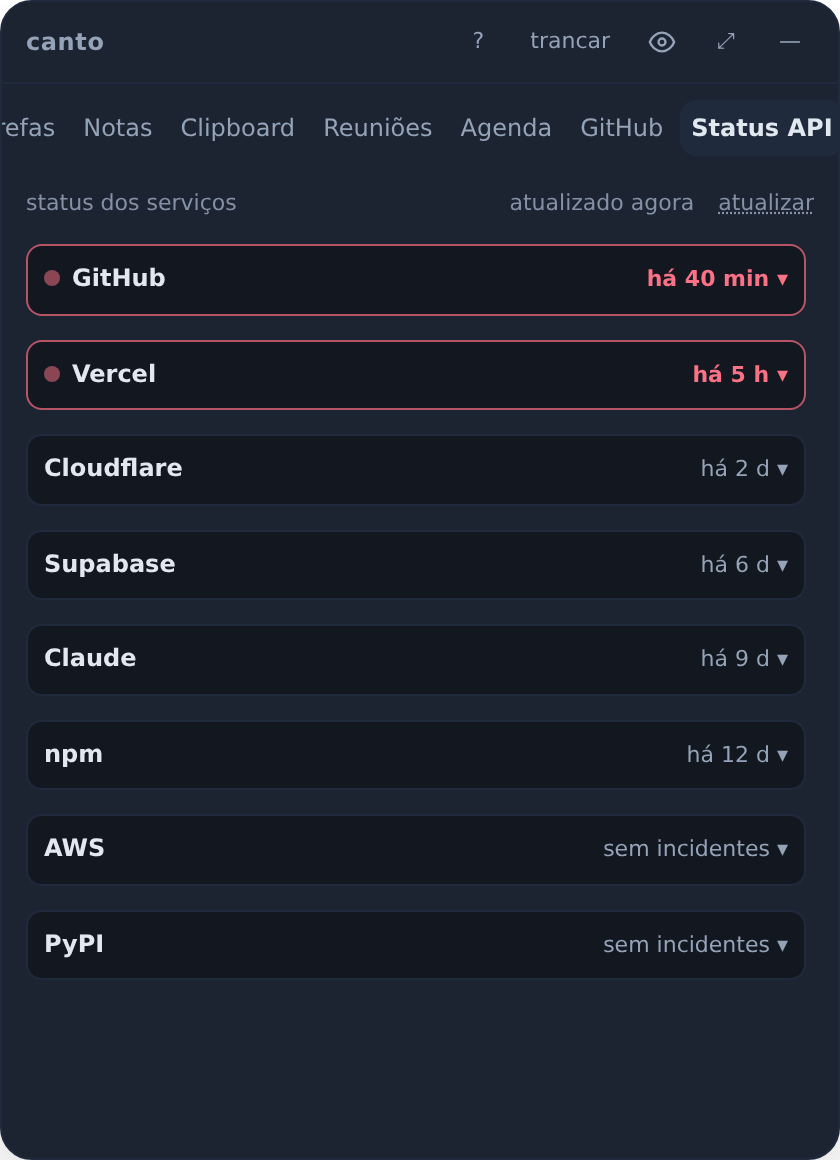
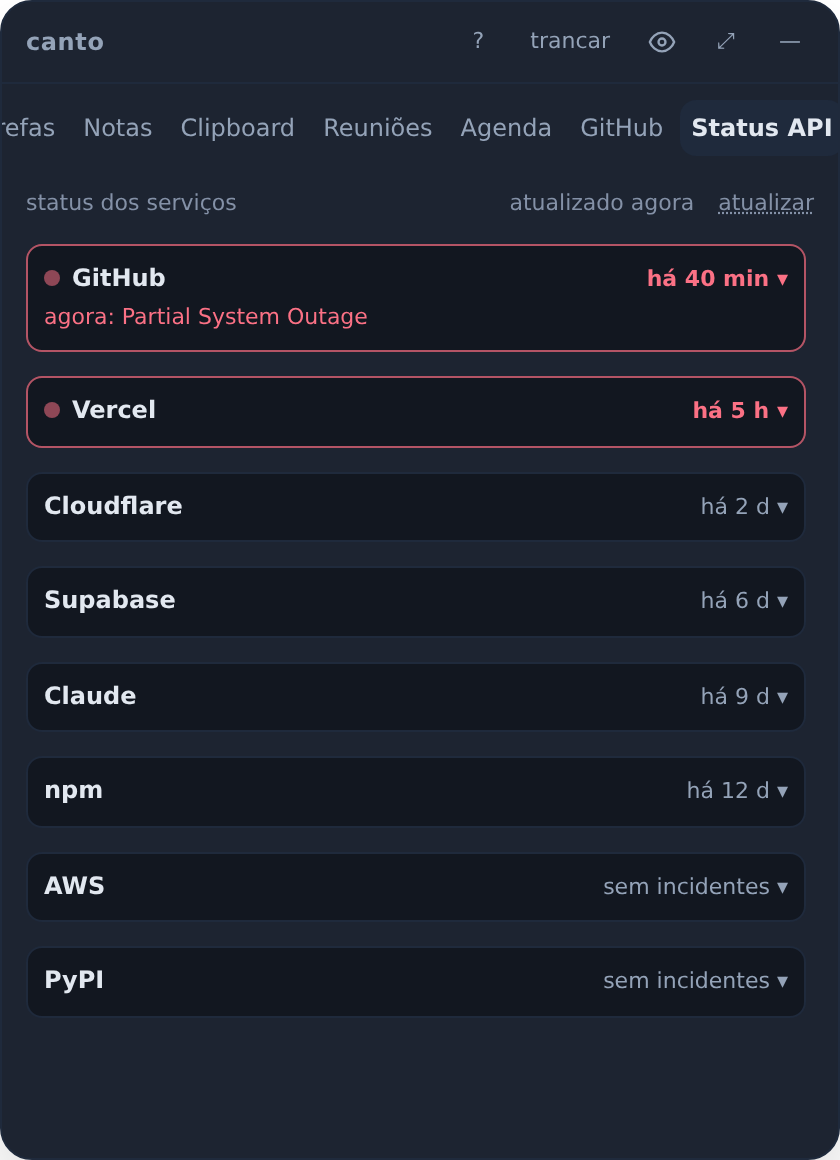
feat(status): show the live Statuspage state and highlight only open trouble
The RSS history can't tell a resolved incident from an ongoing one. For
Statuspage-hosted services (their feed ends in /history.rss) the tab now
also reads /api/v2/status.json and highlights only minor/major/critical
states, with the provider's own description. Services without that
endpoint, or when the call fails, keep the 24 h history rule.

Claude-Session: https://claude.ai/code/session_01NvVAVLfigwZibdVop6P8CV

Changed region(s): [[0.031, 0.2483, 0.9595, 0.869]]

diff --git a/src/components/StatusTab.tsx b/src/components/StatusTab.tsx
@@ -1,7 +1,7 @@
 import { useCallback, useEffect, useId, useState } from "react";
 import { api, errText, type StatusResult } from "../lib/api";
 import { timeAgo } from "../lib/time";
-import { hasRecentIncident, lastIncident, sortByLastIncident } from "../lib/status";
+import { isTroubled, lastIncident, sortByLastIncident } from "../lib/status";
 import Skeleton from "./Skeleton";
 
 /** Incident history from services the team depends on: read-only, no account needed. */
@@ -66,7 +66,9 @@ export default function StatusTab() {
 function StatusAccordion({ result, open, onToggle }: { result: StatusResult; open: boolean; onToggle: () => void }) {
   const bodyId = useId();
   const last = lastIncident(result);
-  const troubled = !result.error && hasRecentIncident(result, Date.now());
+  const troubled = isTroubled(result, Date.now());
+  const maintenance = result.live?.indicator === "maintenance";
+  const liveText = troubled || maintenance ? result.live?.description : "";
   return (
     <section
       data-troubled={troubled || undefined}
@@ -77,13 +79,19 @@ function StatusAccordion({ result, open, onToggle }: { result: StatusResult; ope
           <span className="flex min-w-0 items-center gap-1.5">
             {troubled && <span aria-hidden="true" className="size-2 shrink-0 rounded-full bg-danger motion-safe:animate-pulse" />}
             <span className="truncate text-xs font-semibold text-fg">{result.label}</span>
-            {troubled && <span className="sr-only">com incidente nas últimas 24 h</span>}
+            {troubled && <span className="sr-only">{result.live ? "com problemas agora" : "com incidente nas últimas 24 h"}</span>}
           </span>
           <span className={`shrink-0 text-[11px] ${troubled ? "font-semibold text-danger" : "text-muted"}`}>
             {result.error ? "indisponível" : last > 0 ? timeAgo(last) : "sem incidentes"}{" "}
             <span aria-hidden="true">{open ? "▴" : "▾"}</span>
           </span>
         </span>
+        {liveText && (
+          <span className={`mt-0.5 block truncate text-[11px] ${troubled ? "text-danger" : "text-muted"}`}>
+            {maintenance ? "manutenção: " : "agora: "}
+            {liveText}
+          </span>
+        )}
       </button>
       {open && (
         <div id={bodyId} className="px-2 pb-2">

diff --git a/src/lib/status.test.ts b/src/lib/status.test.ts
@@ -1,5 +1,5 @@
 import { expect, test } from "bun:test";
-import { hasRecentIncident, sortByLastIncident } from "./status";
+import { hasRecentIncident, isTroubled, sortByLastIncident } from "./status";
 
 const svc = (id: string, times: number[], error: string | null = null) => ({
   id,
@@ -18,4 +18,13 @@ test("an incident in the last 24h marks the service as having problems", () => {
   expect(hasRecentIncident(svc("a", [now - 3600_000]), now)).toBe(true);
   expect(hasRecentIncident(svc("a", [now - 25 * 3600_000]), now)).toBe(false);
   expect(hasRecentIncident(svc("a", []), now)).toBe(false);
+});
+
+test("the live Statuspage indicator wins over the 24h history rule", () => {
+  const now = 10 * 24 * 3600_000;
+  const recent = svc("a", [now - 3600_000]);
+  expect(isTroubled({ ...recent, live: { indicator: "none", description: "All Systems Operational" } }, now)).toBe(false);
+  expect(isTroubled({ ...svc("b", []), live: { indicator: "major", description: "Partial Outage" } }, now)).toBe(true);
+  expect(isTroubled({ ...svc("c", []), live: { indicator: "maintenance", description: "Scheduled" } }, now)).toBe(false);
+  expect(isTroubled(recent, now)).toBe(true);
 });

diff --git a/src/components/StatusTab.test.tsx b/src/components/StatusTab.test.tsx
@@ -90,3 +90,11 @@ test("services are listed by last incident and the ones with an incident in the 
   expect(screen.getByText("GitHub").closest("section")?.hasAttribute("data-troubled")).toBe(true);
   expect(screen.getByText("Claude").closest("section")?.hasAttribute("data-troubled")).toBe(false);
 });
+
+test("a live outage from Statuspage is highlighted with its description even without recent history", async () => {
+  const down = { ...aws, id: "npm", label: "npm", live: { indicator: "major", description: "Partial System Outage" } };
+  status = () => Promise.resolve([down, claude]);
+  await show();
+  expect(screen.getByText("npm").closest("section")?.hasAttribute("data-troubled")).toBe(true);
+  expect(screen.getByText(/Partial System Outage/)).toBeTruthy();
+});

diff --git a/src/lib/api.ts b/src/lib/api.ts
@@ -99,7 +99,8 @@ export type Attachment = { title: string; url: string; mime: string };
 export type ChecksStatus = "success" | "failure" | "running" | "none";
 export type GeminiDoc = { meeting: string; start: string; title: string; url: string };
 export type StatusItem = { title: string; link: string; published_at: number };
-export type StatusResult = { id: string; label: string; items: StatusItem[]; error: string | null };
+export type StatusLive = { indicator: "none" | "minor" | "major" | "critical" | "maintenance"; description: string };
+export type StatusResult = { id: string; label: string; items: StatusItem[]; error: string | null; live?: StatusLive | null };
 
 export const api = {
   status: () => invoke<VaultStatus>("vault_status"),

diff --git a/src/lib/status.ts b/src/lib/status.ts
@@ -17,3 +17,12 @@ export function sortByLastIncident(results: StatusResult[]): StatusResult[] {
     .sort((a, b) => b.last - a.last || a.i - b.i)
     .map((x) => x.r);
 }
+
+/**
+ * Statuspage's live indicator wins when there is one (a resolved incident an hour ago is not trouble);
+ * other providers only have history, so a recent incident stands in for "still happening".
+ */
+export function isTroubled(r: StatusResult, now: number): boolean {
+  if (r.live) return ["minor", "major", "critical"].includes(r.live.indicator);
+  return !r.error && hasRecentIncident(r, now);
+}

diff --git a/src-tauri/src/status_live.rs b/src-tauri/src/status_live.rs
@@ -1,0 +1,64 @@
+//! Current state from Statuspage's `/api/v2/status.json`: the RSS history only says what happened, not
+//! whether it is still happening. Best effort; the UI falls back to "incident in the last 24 h".
+use serde::{Deserialize, Serialize};
+
+#[derive(Debug, Clone, Serialize, PartialEq)]
+pub struct Live {
+    /// Statuspage's `none`, `minor`, `major`, `critical` or `maintenance`.
+    pub indicator: String,
+    pub description: String,
+}
+
+#[derive(Deserialize)]
+struct Body {
+    status: Status,
+}
+
+#[derive(Deserialize)]
+struct Status {
+    indicator: String,
+    #[serde(default)]
+    description: String,
+}
+
+const INDICATORS: [&str; 5] = ["none", "minor", "major", "critical", "maintenance"];
+
+/// Statuspage publishes the incident history at `/history.rss`; other providers have no such endpoint.
+pub fn url_for(feed_url: &str) -> Option<String> {
+    feed_url.strip_suffix("/history.rss").map(|base| format!("{base}/api/v2/status.json"))
+}
+
+pub fn parse(bytes: &[u8]) -> Option<Live> {
+    let body: Body = serde_json::from_slice(bytes).ok()?;
+    let description: String = body.status.description.chars().take(120).collect();
+    INDICATORS
+        .contains(&body.status.indicator.as_str())
+        .then_some(Live { indicator: body.status.indicator, description })
+}
+
+pub fn fetch(client: &reqwest::blocking::Client, feed_url: &str) -> Option<Live> {
+    let res = client.get(url_for(feed_url)?).send().ok()?.error_for_status().ok()?;
+    parse(&res.bytes().ok()?)
+}
+
+#[cfg(test)]
+mod tests {
+    use super::*;
+
+    #[test]
+    fn only_statuspage_feeds_have_a_live_endpoint() {
+        assert_eq!(
+            url_for("https://www.githubstatus.com/history.rss").as_deref(),
+            Some("https://www.githubstatus.com/api/v2/status.json")
+        );
+        assert_eq!(url_for("https://status.cloud.google.com/en/feed.atom"), None);
+    }
+
+    #[test]
+    fn parses_the_indicator_and_rejects_unknown_ones() {
+        let ok = br#"{"page":{"id":"x"},"status":{"indicator":"major","description":"Partial System Outage"}}"#;
+        assert_eq!(parse(ok), Some(Live { indicator: "major".into(), description: "Partial System Outage".into() }));
+        assert_eq!(parse(br#"{"status":{"indicator":"<script>"}}"#), None);
+        assert_eq!(parse(b"<html>not json</html>"), None);
+    }
+}

diff --git a/src-tauri/src/status_feed.rs b/src-tauri/src/status_feed.rs
@@ -46,6 +46,8 @@ pub struct StatusResult {
     pub items: Vec<StatusItem>,
     /// Set when the fetch or parse failed; `items` is then empty rather than stale.
     pub error: Option<String>,
+    /// Current state, for Statuspage-hosted services only.
+    pub live: Option<crate::status_live::Live>,
 }
 
 fn parse(bytes: &[u8]) -> Result<Vec<StatusItem>, String> {
@@ -74,11 +76,16 @@ fn fetch_one(client: &reqwest::blocking::Client, source: &Source) -> StatusResul
         .map_err(|e| e.to_string())
         .and_then(|r| r.bytes().map_err(|e| e.to_string()))
         .and_then(|b| parse(&b));
+    let live = crate::status_live::fetch(client, source.url);
     match outcome {
-        Ok(items) => StatusResult { id: source.id.into(), label: source.label.into(), items, error: None },
-        Err(error) => {
-            StatusResult { id: source.id.into(), label: source.label.into(), items: Vec::new(), error: Some(error) }
-        }
+        Ok(items) => StatusResult { id: source.id.into(), label: source.label.into(), items, error: None, live },
+        Err(error) => StatusResult {
+            id: source.id.into(),
+            label: source.label.into(),
+            items: Vec::new(),
+            error: Some(error),
+            live,
+        },
     }
 }
 
@@ -96,6 +103,7 @@ pub fn fetch_all() -> Vec<StatusResult> {
                     label: s.label.into(),
                     items: Vec::new(),
                     error: Some(e.to_string()),
+                    live: None,
                 })
                 .collect();
         }
@@ -111,6 +119,7 @@ pub fn fetch_all() -> Vec<StatusResult> {
                     label: source.label.into(),
                     items: Vec::new(),
                     error: Some("thread interrompida".into()),
+                    live: None,
                 })
             })
             .collect()

diff --git a/src-tauri/src/status_cache.rs b/src-tauri/src/status_cache.rs
@@ -36,7 +36,7 @@ mod tests {
     use super::*;
 
     fn result(label: &str) -> Vec<StatusResult> {
-        vec![StatusResult { id: "x".into(), label: label.into(), items: Vec::new(), error: None }]
+        vec![StatusResult { id: "x".into(), label: label.into(), items: Vec::new(), error: None, live: None }]
     }
 
     #[test]

diff --git a/src-tauri/src/lib.rs b/src-tauri/src/lib.rs
@@ -54,6 +54,7 @@ pub mod routine;
 pub mod snooze;
 pub mod status_cache;
 pub mod status_feed;
+pub mod status_live;
 pub mod store;
 pub mod subtask;
 pub mod sync;

diff --git a/README.md b/README.md
@@ -168,7 +168,7 @@ And **Follow system**, which switches between light and dark along with the OS. 
 
 | Task reminder | Change master password | Status API (opt-in tab) |
 |---|---|---|
-| ![Reminder with complete and snooze](docs/prints/app/08-lembrete-tarefa.png) | ![Password change form](docs/prints/app/13-trocar-senha.png) | ![Services sorted by last incident, the ones with an incident in the last 24 h highlighted](docs/prints/app/29-status-api.png) |
+| ![Reminder with complete and snooze](docs/prints/app/08-lembrete-tarefa.png) | ![Password change form](docs/prints/app/13-trocar-senha.png) | ![Services sorted by last incident; ongoing outages highlighted with their live Statuspage state](docs/prints/app/29-status-api.png) |
 
 </details>
 

diff --git a/CHANGELOG.md b/CHANGELOG.md
@@ -7,6 +7,9 @@ versões em [SemVer](https://semver.org/lang/pt-BR/).
 
 ### Alterado
 
+- **Status API com estado ao vivo**: serviços hospedados no Statuspage (Claude, GitHub, Cloudflare, Vercel, npm,
+  PyPI, Supabase, DigitalOcean...) mostram o estado atual ("agora: Partial System Outage") e só ficam em destaque
+  enquanto o problema está aberto; os demais seguem a regra de incidente nas últimas 24 h.
 - **Reordenar tarefas com filtro de prioridade**: o puxador continua disponível com o filtro ativo; só as tarefas
   visíveis trocam de lugar e as ocultas mantêm a posição.
 - **Status API**: os serviços aparecem ordenados pela hora do último incidente (mais recente primeiro; sem
